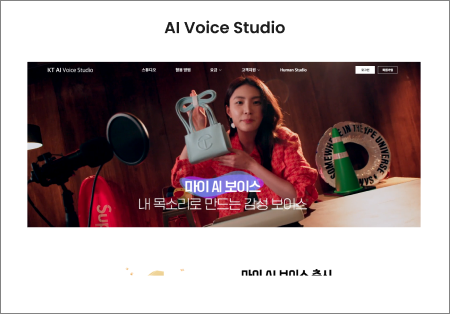
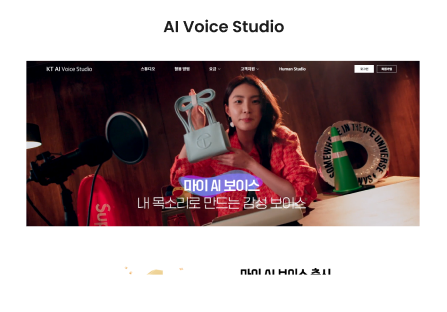
refactor: projects - css 및 이미지 수정

diff --git a/src/styles/mediumthumnaillist.scss b/src/styles/mediumthumnaillist.scss
@@ -1,3 +1,4 @@
+@use 'colors' as *;
 .thumnaillist-container {
   display: grid;
   grid-template-columns: 1fr 1fr;
@@ -9,6 +10,12 @@
   &:hover {
     transform: scale(1.1);
     transition: all 0.2s ease-in-out;
+  }
+  img {
+    border-radius: 10px;
+    box-shadow:
+      -0.5px -0.5px 4px $lightSilver,
+      4px 4px 4px $lightSilver;
   }
   button {
     cursor: pointer;

diff --git a/src/styles/global.scss b/src/styles/global.scss
@@ -67,6 +67,14 @@
   .projects-page-title {
     color: $pastelLilac;
   }
+  .thumnaillist-image-container {
+    img {
+      border-radius: 10px;
+      box-shadow:
+        -0.5px -0.5px 4px $eclipseBlack,
+        4px 4px 4px $eclipseBlack;
+    }
+  }
   .experience-page-title {
     color: $pastelLilac;
   }

diff --git a/src/styles/_colors.scss b/src/styles/_colors.scss
@@ -8,6 +8,7 @@ $lightpastelLilac: #bcb6ff40;
 $softLavender: #f4f3ff;
 $charcoalGray: #313131;
 $midnightBlack: #070606;
+$eclipseBlack: #202020;
 $slateGray: #505050;
 $lightslateGray: #505050b3;
 $fogGray: #9a9a9a;
